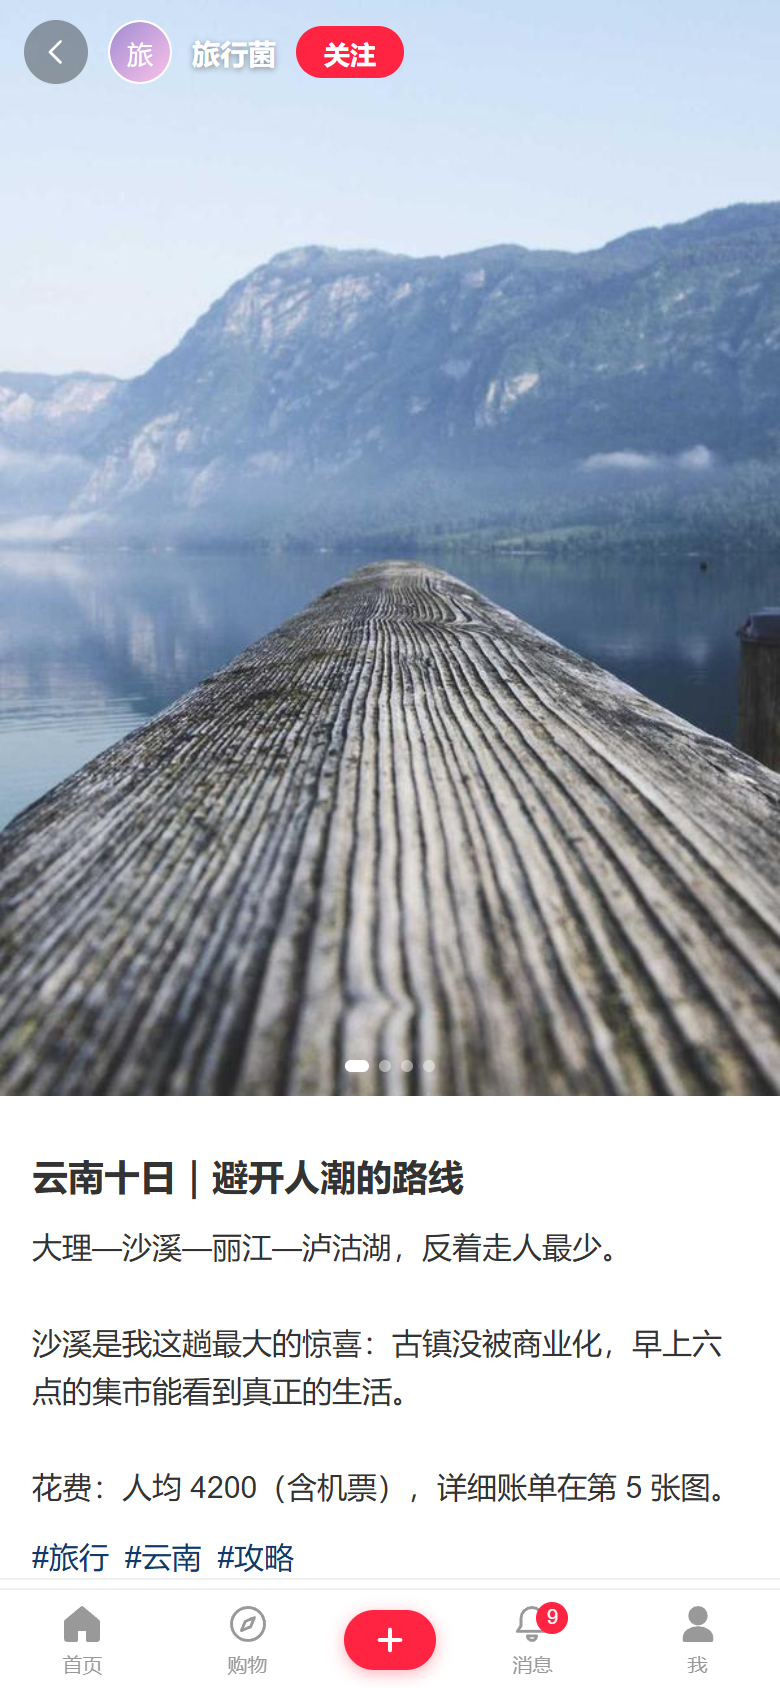
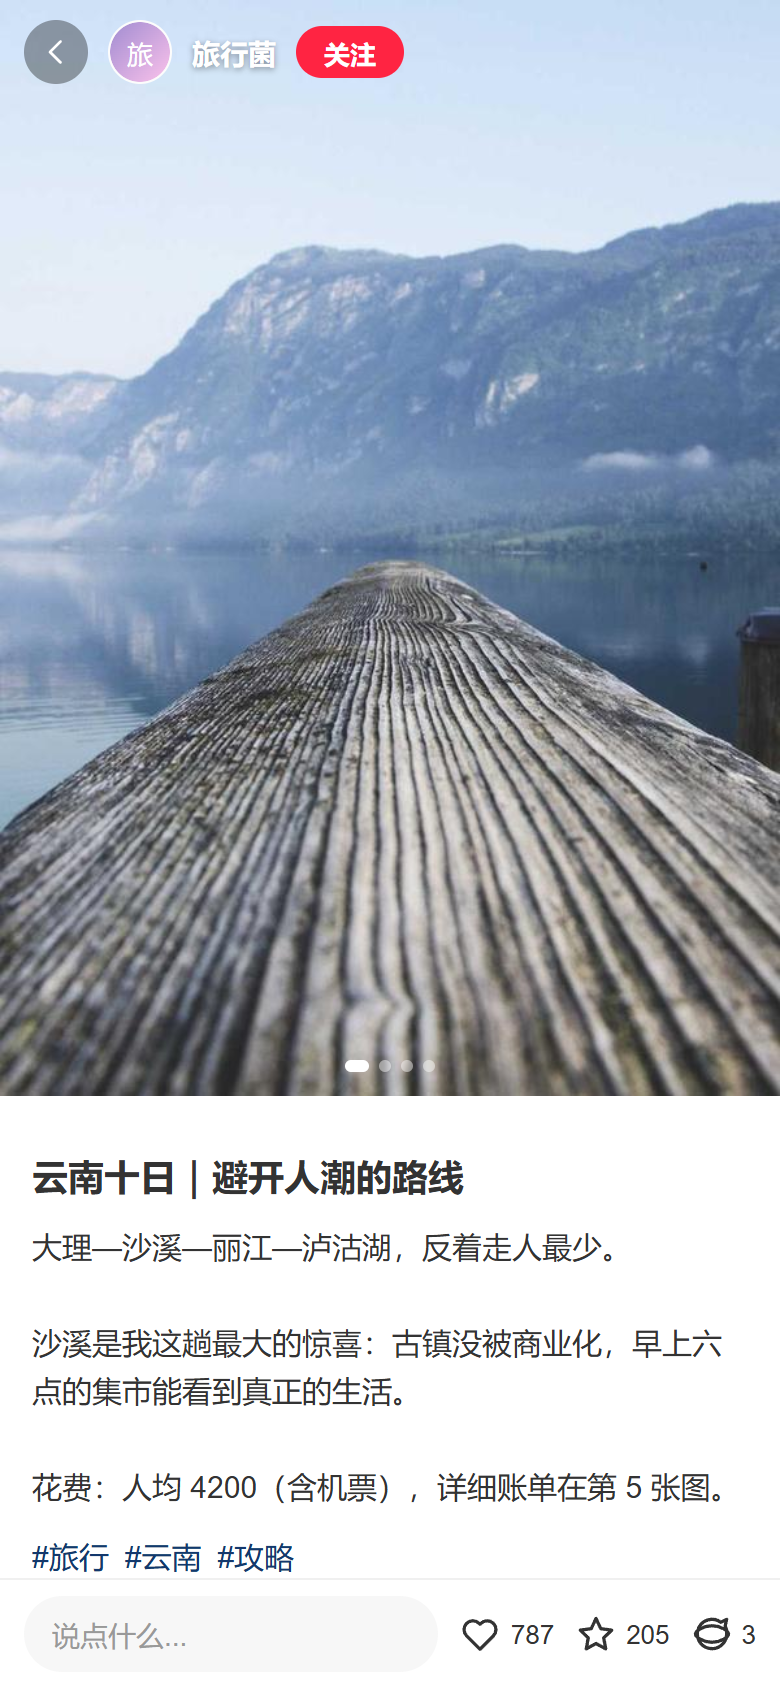
fix: review 修复四处真实缺陷 + 端到端全链路测试通过
1. 消息路由注册顺序：/unread/count 被 /:box 吞掉导致未读角标永远为 0
2. 笔记详情页底部操作栏被 TabBar 遮挡（详情页改为全屏，与官方一致）
3. 评论输入条 z-index 低于自身遮罩层，点「发送」被拦截
4. 纯文字笔记无封面时卡片永久骨架屏（新增渐变占位封面）

另：seed --reset 现在会重置 AUTOINCREMENT（ID 每次从 1 开始）；
截图脚本改为动态获取笔记 ID；android:sync 脚本用 npx 解析 cap。
Playwright E2E 全链路（注册→发布→点赞→收藏→评论→信息流/主页/搜索/消息）ALL PASS。

Changed region(s): [[0.4308, 0.9242, 0.9538, 1.0], [0.0615, 0.955, 0.2154, 1.0], [0.2769, 0.955, 0.3385, 1.0]]

diff --git a/web/src/components/NoteCard.jsx b/web/src/components/NoteCard.jsx
@@ -7,24 +7,45 @@ function fmtCount(n) {
   return String(n ?? 0);
 }
 
+/** 纯文字笔记的占位封面（无图也能发，卡片不空骨架） */
+const PLACEHOLDER_COLORS = [
+  ['#ffe3e8', '#ffd0d8'],
+  ['#e8f1ff', '#d0e2ff'],
+  ['#e6f9ef', '#c9f2dd'],
+  ['#fff4dd', '#ffe4b8'],
+  ['#f1e9ff', '#ded0ff']
+];
+
+function TextCover({ id, title }) {
+  const [c1, c2] = PLACEHOLDER_COLORS[Math.abs(Number(id) || 0) % PLACEHOLDER_COLORS.length];
+  return (
+    <div
+      className="note-cover"
+      style={{ aspectRatio: '3 / 4', background: `linear-gradient(135deg, ${c1}, ${c2})`, display: 'flex', alignItems: 'flex-end', padding: 12 }}
+    >
+      <span style={{ fontSize: 13, color: 'rgba(51,51,51,.65)', lineHeight: '19px', display: '-webkit-box', WebkitLineClamp: 3, WebkitBoxOrient: 'vertical', overflow: 'hidden' }}>
+        {title}
+      </span>
+    </div>
+  );
+}
+
 /** 单张笔记卡片（对应小红书 noteCard） */
 export default function NoteCard({ note, onClick, onUserClick }) {
-  const cover = note.cover || note.images?.[0] || {};
-  const ratio = cover.w && cover.h ? `${cover.w} / ${cover.h}` : '3 / 4';
+  const cover = note.cover || note.images?.[0] || null;
+  const ratio = cover?.w && cover?.h ? `${cover.w} / ${cover.h}` : '3 / 4';
   const liked = note.interactInfo?.liked;
 
   return (
     <article className="note-card" onClick={() => onClick?.(note)}>
-      <div style={{ position: 'relative' }}>
-        <SmartImage
-          className="note-cover"
-          src={cover.url}
-          fallback={cover.fallback}
-          alt={note.title}
-          ratio={ratio}
-        />
-        {(note.images?.length || 0) > 1 && <span className="multi-tag">{note.images.length}图</span>}
-      </div>
+      {cover?.url || cover?.fallback ? (
+        <div style={{ position: 'relative' }}>
+          <SmartImage className="note-cover" src={cover.url} fallback={cover.fallback} alt={note.title} ratio={ratio} />
+          {(note.images?.length || 0) > 1 && <span className="multi-tag">{note.images.length}图</span>}
+        </div>
+      ) : (
+        <TextCover id={note.id} title={note.title || note.desc} />
+      )}
       <div className="note-body">
         <div className="note-title">{note.title || note.desc}</div>
         <div className="note-foot">

diff --git a/server/src/routes/messages.js b/server/src/routes/messages.js
@@ -36,6 +36,12 @@ router.get('/', requireAuth, (req, res) => {
   return ok(res, { boxes, totalUnread: boxes.reduce((s, b) => s + b.unread, 0) });
 });
 
+/** GET /api/messages/unread/count —— 角标（必须先于 /:box 注册，否则被其吞掉） */
+router.get('/unread/count', requireAuth, (req, res) => {
+  const c = db.prepare('SELECT COUNT(*) c FROM messages WHERE to_user_id = ? AND read = 0').get(req.user.id).c;
+  return ok(res, { count: c });
+});
+
 /** GET /api/messages/:box —— 某个 box 的消息列表 */
 router.get('/:box', requireAuth, (req, res) => {
   const uid = req.user.id;
@@ -68,12 +74,6 @@ router.get('/:box', requireAuth, (req, res) => {
 router.post('/read-all', requireAuth, (req, res) => {
   db.prepare('UPDATE messages SET read = 1 WHERE to_user_id = ?').run(req.user.id);
   return ok(res, null, '已全部标记为已读');
-});
-
-/** GET /api/messages/unread/count —— 角标 */
-router.get('/unread/count', requireAuth, (req, res) => {
-  const c = db.prepare('SELECT COUNT(*) c FROM messages WHERE to_user_id = ? AND read = 0').get(req.user.id).c;
-  return ok(res, { count: c });
 });
 
 export default router;

diff --git a/web/src/pages/NoteDetail.jsx b/web/src/pages/NoteDetail.jsx
@@ -140,7 +140,13 @@ export default function NoteDetail() {
           if (dx < -40) setIdx((i) => Math.min(images.length - 1, i + 1));
         }}
       >
-        <img src={images[idx]?.url} alt="" onError={(e) => { if (images[idx]?.fallback) e.target.src = images[idx].fallback; }} />
+        {images.length ? (
+          <img src={images[idx]?.url} alt="" onError={(e) => { if (images[idx]?.fallback) e.target.src = images[idx].fallback; }} />
+        ) : (
+          <div style={{ minHeight: 340, display: 'flex', alignItems: 'center', justifyContent: 'center', fontSize: 90, background: 'linear-gradient(135deg,#ffe3e8,#f6f7fb)' }}>
+            📝
+          </div>
+        )}
       </div>
       {images.length > 1 && (
         <div className="detail-dots">

diff --git a/web/src/components/Layout.jsx b/web/src/components/Layout.jsx
@@ -10,8 +10,15 @@ const TABS = [
   { to: '/me', label: '我', icon: 'user' }
 ];
 
+/** 全屏页面不显示底部导航（与官方一致）：发布 / 登录 / 笔记详情 */
+function hideTabbar(pathname) {
+  return pathname === '/publish' || pathname === '/login' || pathname.startsWith('/note/');
+}
+
 export function TabBar() {
   const unread = useUserStore((s) => s.unread);
+  const { pathname } = useLocation();
+  if (hideTabbar(pathname)) return null;
   return (
     <nav className="tabbar">
       <TabItem {...TABS[0]} />

diff --git a/web/src/store/user.js b/web/src/store/user.js
@@ -49,8 +49,8 @@ export const useUserStore = create(
         if (!get().token) return 0;
         try {
           const { count } = await api.unread();
-          set({ unread: count });
-          return count;
+          set({ unread: count || 0 });
+          return count || 0;
         } catch {
           return 0;
         }

diff --git a/web/src/styles/global.css b/web/src/styles/global.css
@@ -933,7 +933,7 @@ img {
   left: 0;
   right: 0;
   bottom: 0;
-  z-index: 60;
+  z-index: 95; /* 必须高于遮罩层(80)，否则发送按钮会被遮罩拦截点击 */
   background: #fff;
   border-top: 1px solid var(--line);
   padding: 10px 12px calc(10px + var(--safe-b));
